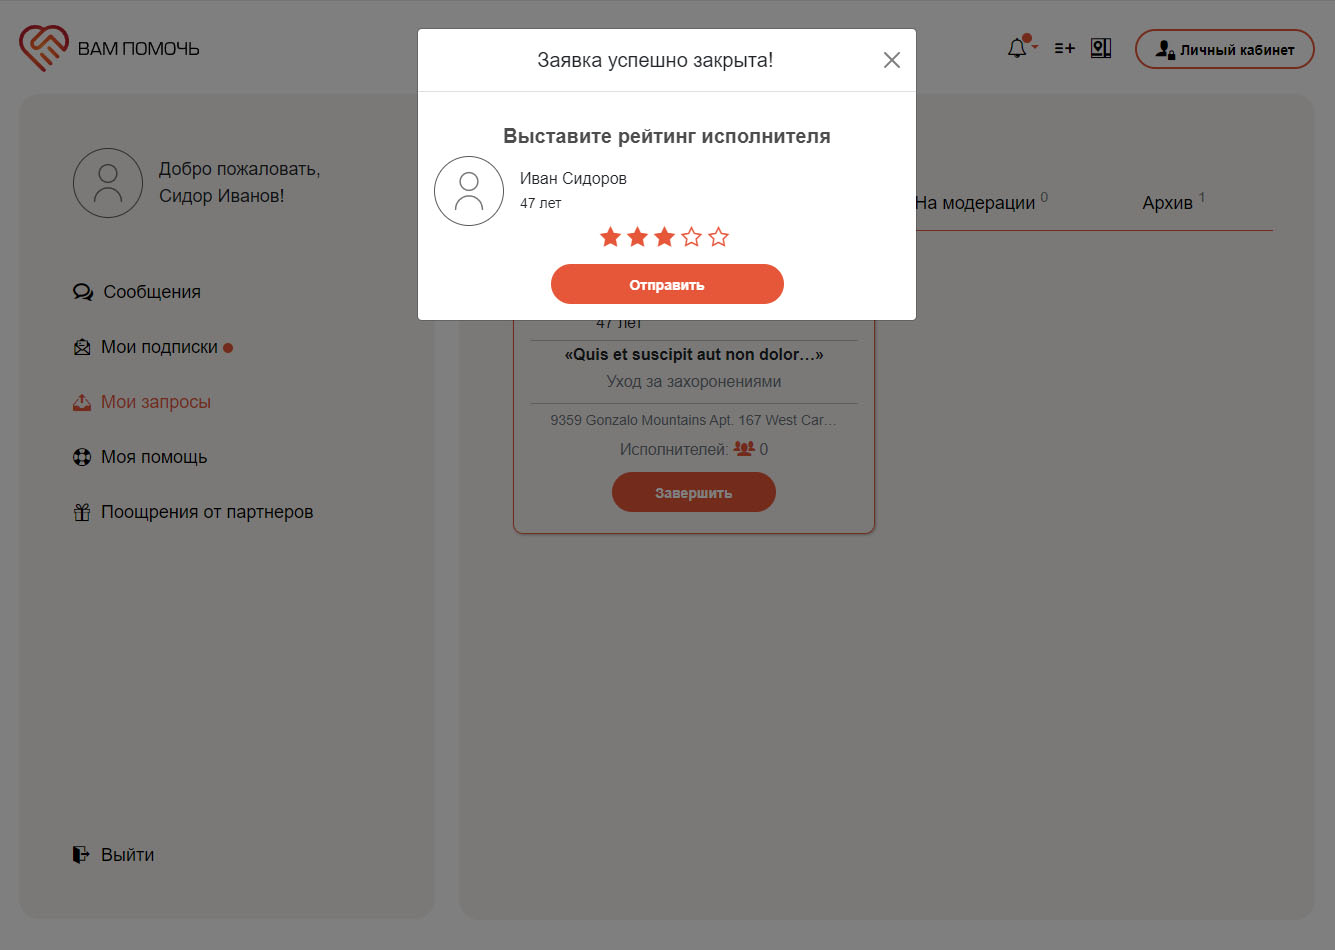
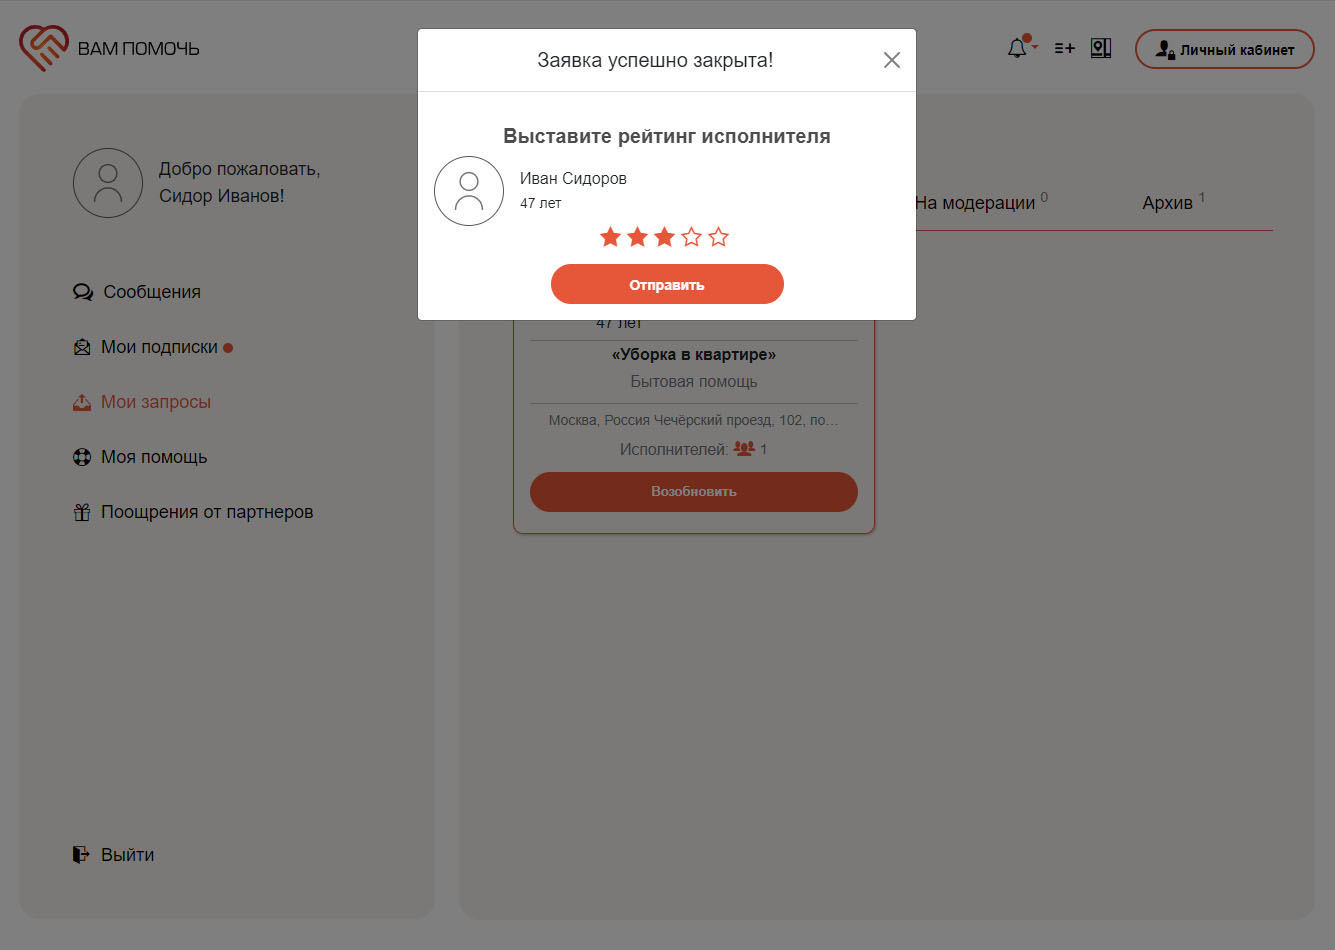
fixes

Changed region(s): [[0.3993, 0.3663, 0.6142, 0.4579], [0.4914, 0.4884, 0.6449, 0.5495], [0.3993, 0.4884, 0.4607, 0.5495]]

diff --git a/resources/js/components/MyOrdersListComponent.vue b/resources/js/components/MyOrdersListComponent.vue
@@ -32,6 +32,7 @@
                 </td>
                 <td class="order-cell-delete icon align-middle">
                     <ButtonComponent
+                        v-show="showRefuseButton"
                         class="btn btn-primary"
                         text="Отказать"
                         @click="removePerformer(performer.id)"
@@ -189,6 +190,7 @@ export default {
             deletingOrderTab: '',
             removingPerformerId: 0,
             removingPerformerOrderId: 0,
+            showRefuseButton: true,
             performers: [],
             rating: 0,
             activeTab: String,
@@ -267,8 +269,10 @@ export default {
             });
         },
         getPerformers(params) {
-            this.performers = params.performers;
-            this.removingPerformerOrderId = params.orderId;
+            console.log(params);
+            this.performers = params.order.performers;
+            this.removingPerformerOrderId = params.order.id;
+            this.showRefuseButton = params.order.status === 1;
             $('#order-performers-modal').modal('show');
         },
         removePerformer(id) {

diff --git a/resources/js/components/blocks/OrdersTabsComponent.vue b/resources/js/components/blocks/OrdersTabsComponent.vue
@@ -23,7 +23,7 @@
                                 <small><a :href="orders_map_url + '?id=' + order.id" title="Перейти на карту">Посмотреть на карте</a></small>
                             </span>
                         </div>
-                        <div class="w-100 text-center mb-1" role="button" @click="$emit('performers',{'performers':order.performers,'orderId':order.id})" v-else>
+                        <div class="w-100 text-center mb-1" role="button" @click="$emit('performers',{'order':order})" v-else>
                             <span class="text-secondary me-1"><small>Исполнителей:</small></span>
                             <i title="Участники" class="orange icon-users4 me-1"></i>
                             <span class="text-secondary"><small>{{ order.performers.length }}</small></span>

diff --git a/resources/js/components/EditOrderComponent.vue b/resources/js/components/EditOrderComponent.vue
@@ -370,7 +370,7 @@ export default {
                             $.each(self.geoObjectCollection.featureMember, function (k,featureMember) {
                                 self.addresses.push(featureMember.GeoObject.description + ' ' + featureMember.GeoObject.name);
                             });
-                            $('#addresses')[0].size = self.addresses.length + 0.2;
+                            $('#addresses')[0].size = self.addresses.length + 0.9;
                             self.disabledButtons = false;
                             self.changeAddressInSelect();
                         }

diff --git a/resources/css/app.css b/resources/css/app.css
@@ -405,6 +405,10 @@ select#addresses {
     overflow: hidden;
 }
 
+select.form-select {
+    overflow-y: auto;
+}
+
 .form-select option {
     margin-bottom: 5px;
 }

diff --git a/resources/views/about_us.blade.php b/resources/views/about_us.blade.php
@@ -5,7 +5,13 @@
         <div class="col-12 col-lg-6">
             <div class="rounded-block half">
                 <h1 class="mb-3">О нас</h1>
-                <p>Cras quis congue purus, quis fringilla lorem. Suspendisse lacinia mattis ante, nec mollis magna tincidunt et. Fusce blandit dui metus, vel lacinia enim faucibus id. Ut eget eleifend massa. Nulla efficitur ornare nibh vitae auctor. Morbi ligula diam, elementum ut lorem non, sollicitudin ornare est. Praesent at erat placerat tellus ultrices condimentum. Vivamus mollis feugiat lorem, gravida gravida sem luctus rhoncus.</p>
+                <p class="small mb-0">Современный мир крайне прагматичен. В приоритете у людей меркантильные интересы. Все процессы воспринимаются через призму личностного обогащения.</p>
+                <p class="small mb-0">Ядром нашей идеи выступает польза. Конструкция предполагает осознание, что смысл жизни человека – приносить пользу, быть полезным.</p>
+                <p class="small mb-0">Польза в нашем понимании – это безвозмездная помощь.</p>
+                <p class="small mb-0">Мы - команда неравнодушных граждан России, создающих условия, чтобы оказание помощи стало легким, доступным и популярным делом.</p>
+                <p class="small mb-0">Сегодня помощь - это, зачастую, обременение.
+                <p class="small mb-0">Завтра, благодаря всем нам - предмет гордости и основа общественного признания!</p>
+                </p>
             </div>
             <div class="rounded-block half d-none d-lg-block">
                 <div class="w-100 image">
@@ -16,7 +22,8 @@
         <div class="col-12 col-lg-6">
             <div class="rounded-block tall">
                 <h1 class="mb-3">Обратная связь</h1>
-                <p class="mb-0">Nunc et dui non elit vestibulum convallis sit amet sit amet nibh. Phasellus maximus viverra efficitur. Donec consequat congue ornare. Praesent id nulla nec lectus fermentum ultricies sed at mi.</p>
+                <p class="small mb-0">Здесь вы можете задать любые вопросы, выразить свое мнение о проекте, или сделать предложение по его улучшению. Для этого нужно заполнить форму обратной связи и дать согласие на обработку персональных данных. бращаем ваше внимание, что все поля обязательны для заполнения.
+                </p>
                 <feedback-component feedback_url="{{ route('feedback') }}"></feedback-component>
             </div>
         </div>

diff --git a/app/Http/Controllers/OrderController.php b/app/Http/Controllers/OrderController.php
@@ -303,9 +303,13 @@ class OrderController extends BaseController
         return response()->json([],200);
     }
 
+    /**
+     * @throws \Illuminate\Auth\Access\AuthorizationException
+     */
     public function setRating(SetRatingRequest $request): JsonResponse
     {
         $order = Order::find($request->order_id);
+        $this->authorize('owner', $order);
         foreach ($order->performers as $performer) {
             $rating = Rating::where('order_id',$order->id)->where('user_id',$performer->id)->first();
             if ($rating) {
@@ -332,6 +336,7 @@ class OrderController extends BaseController
     {
         $order = Order::find($request->id);
         $this->authorize('owner', $order);
+        OrderUser::where('order_id',$order->id)->delete();
         $order->status = 3;
         $order->save();
 
@@ -365,7 +370,6 @@ class OrderController extends BaseController
     private function removeOrderUnreadMessages($orderId): void
     {
         Message::where('order_id',$orderId)->delete();
-        OrderUser::where('order_id',$orderId)->delete();
         ReadOrder::where('order_id',$orderId)->delete();
         ReadPerformer::where('order_id',$orderId)->delete();
         ReadRemovedPerformer::where('order_id',$orderId)->delete();

diff --git a/app/Http/Controllers/BaseController.php b/app/Http/Controllers/BaseController.php
@@ -47,13 +47,13 @@ class BaseController extends Controller
     public function partners(Request $request) :View
     {
         $this->activeMainMenu = 'partners';
-        if ($request->has('id')) {
-            $this->getItem('partner', new Partner(), $request->id);
-            return $this->showView('partner');
-        } else {
+//        if ($request->has('id')) {
+//            $this->getItem('partner', new Partner(), $request->id);
+//            return $this->showView('partner');
+//        } else {
             $this->data['partners'] = Partner::where('active',1)->get();
             return $this->showView('partners');
-        }
+//        }
     }
 
     public function prevUrl(): JsonResponse

diff --git a/database/seeders/OrdersSeeder.php b/database/seeders/OrdersSeeder.php
@@ -30,13 +30,13 @@ class OrdersSeeder extends Seeder
             'latitude' => 55.667594,
             'longitude' => 37.612245,
             'description_short' => 'Чета с кем-то где-то что-то и когда-то надо срочно сделать, а то край!',
-            'status' => 2
+            'status' => 1
         ]);
 
-//        OrderUser::create([
-//            'order_id' => $order->id,
-//            'user_id' => $anotherUser->id
-//        ]);
+        OrderUser::create([
+            'order_id' => $order->id,
+            'user_id' => $anotherUser->id
+        ]);
 
 //        InformingOrder::create([
 //            'message' => trans('content.to_over_order'),

diff --git a/resources/views/partners.blade.php b/resources/views/partners.blade.php
@@ -4,7 +4,8 @@
     <div class="row">
         @foreach ($partners as $partner)
             <div class="rounded-block logo">
-                <a href="{{ route('partners',['id' => $partner->id]) }}"><img src="{{ asset($partner->logo) }}" /></a>
+                <img src="{{ asset($partner->logo) }}" />
+{{--                <a href="{{ route('partners',['id' => $partner->id]) }}"><img src="{{ asset($partner->logo) }}" /></a>--}}
             </div>
         @endforeach
     </div>

diff --git a/resources/views/home.blade.php b/resources/views/home.blade.php
@@ -8,7 +8,7 @@
                 'addClass' => 'tall black',
                 'head' => trans('content.home_head1'),
                 'content' => [trans('content.home_text_block1'), trans('content.home_text_block2')],
-                'addLink' => '#',
+                'addLink' => route('partners'),
                 'addLinkText' => trans('content.more_about_gifts'),
                 'link' => route('how_does_it_work')
             ])

diff --git a/app/Http/Controllers/HelperTrait.php b/app/Http/Controllers/HelperTrait.php
@@ -156,7 +156,8 @@ trait HelperTrait
         if ($actionId && !$alreadyAwarded) {
             $incentive = ActionUser::create([
                 'action_id' => $actionId,
-                'user_id' => Auth::id()
+                'user_id' => $userId,
+                'active' => 1
             ]);
             broadcast(new IncentivesEvent('new_incentive', $incentive, $userId));
             if ($user->email && $user->mail_notice) {

diff --git a/database/seeders/DatabaseSeeder.php b/database/seeders/DatabaseSeeder.php
@@ -19,7 +19,7 @@ class DatabaseSeeder extends Seeder
         $this->call(CitySeeder::class);
         Partner::factory(13)->create();
         $this->call(OrderTypesSeeder::class);
-        Order::factory(50)->create();
+//        Order::factory(50)->create();
         $this->call(OrdersSeeder::class);
         $this->call(OrderImagesSeeder::class);
         $this->call(SubscriptionTypesSeeder::class);
